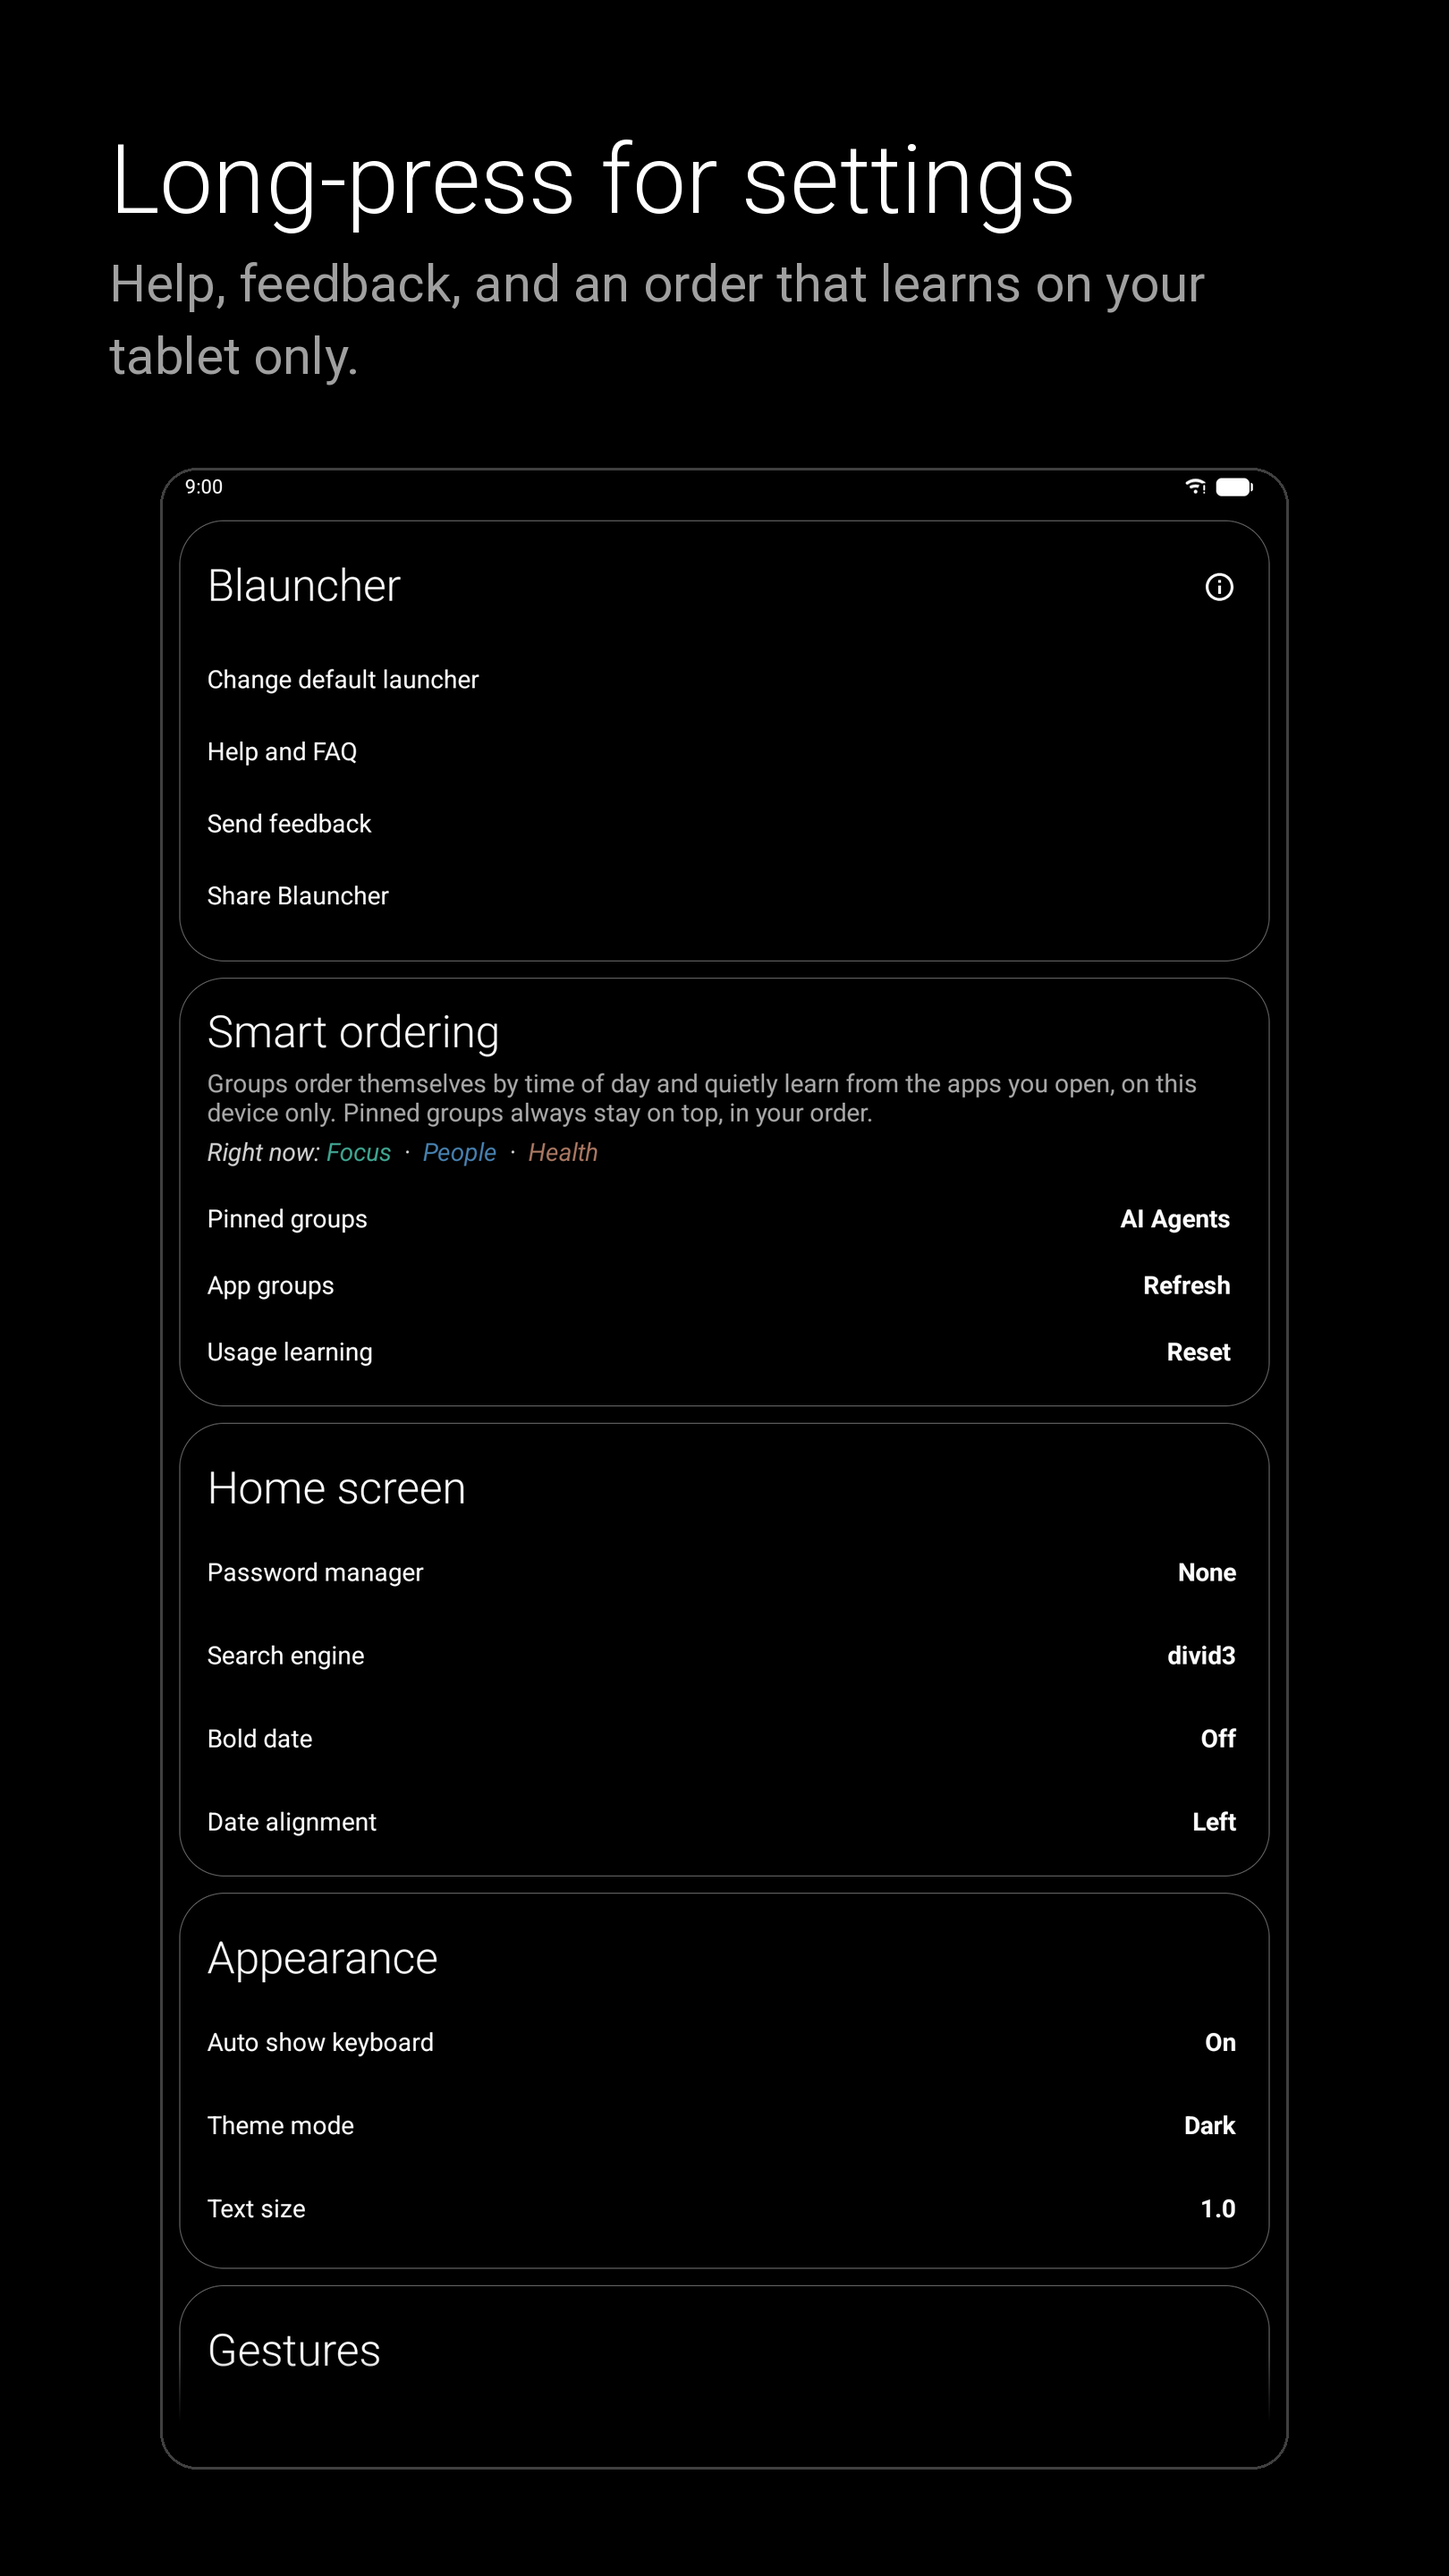
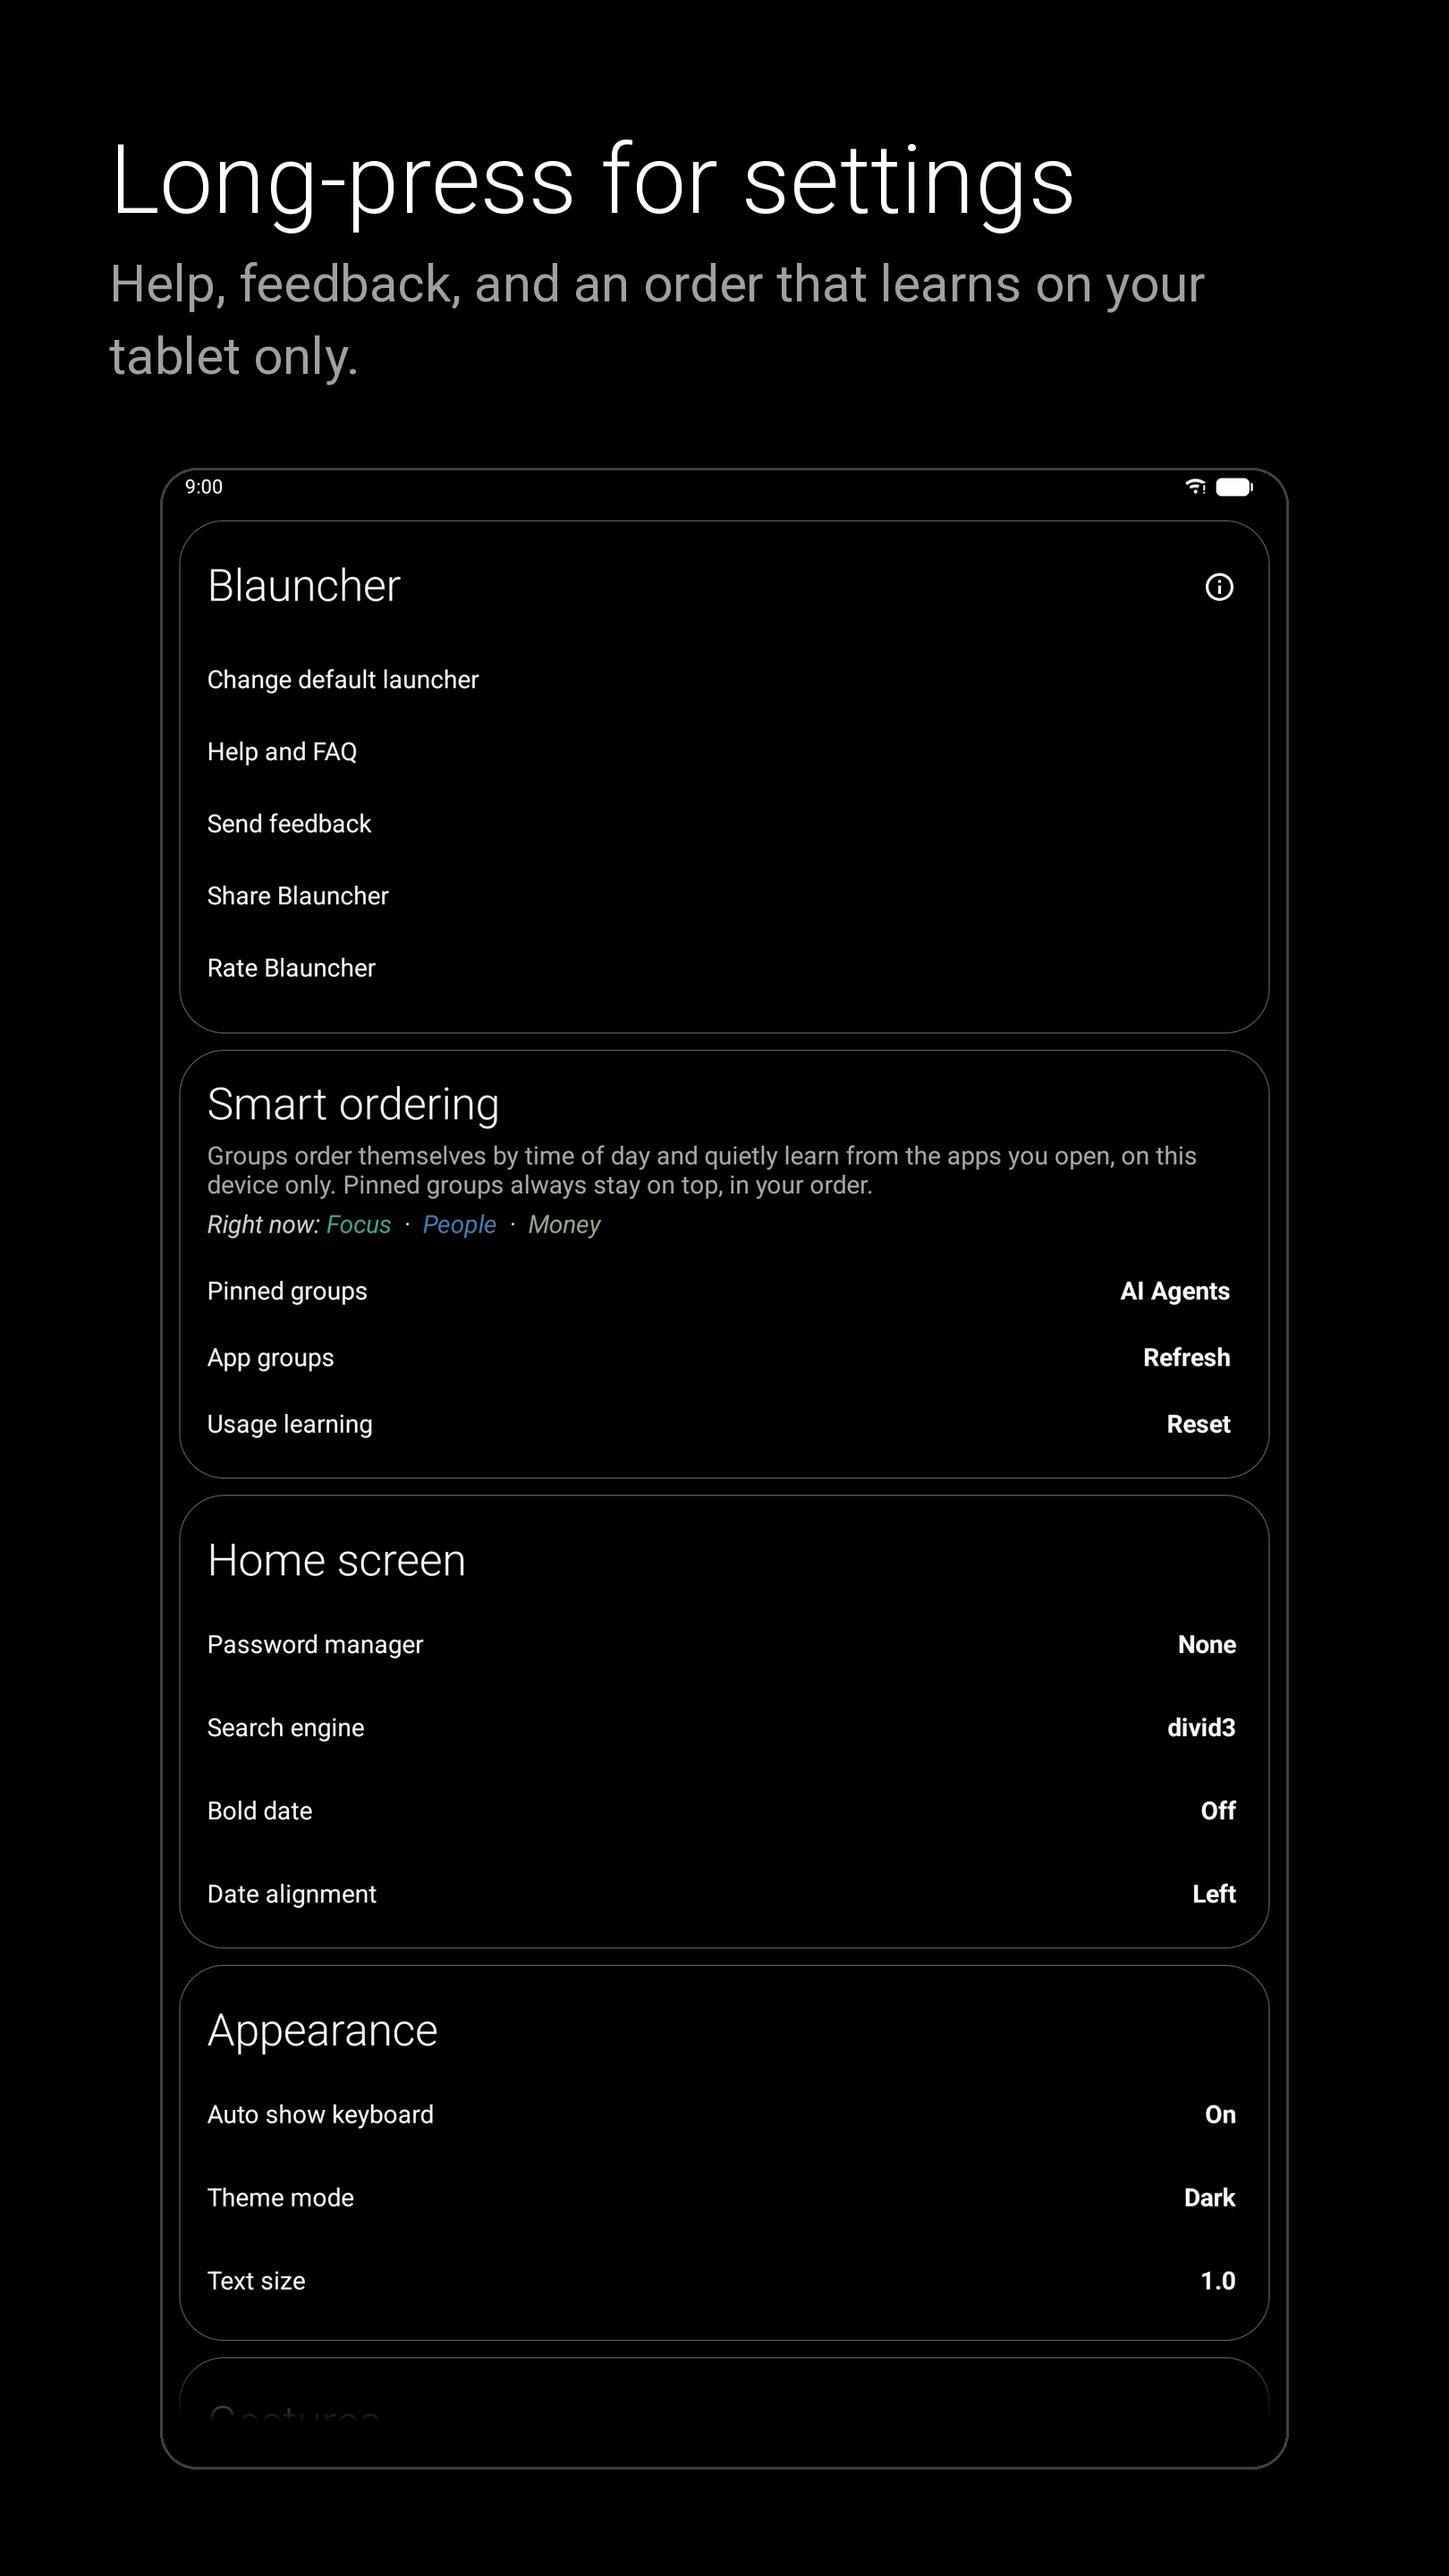
Rate Blauncher: a Settings entry that opens the Play listing
- The Blauncher card gains Rate Blauncher after Share Blauncher. A tap opens
  market://details for com.bradflaugher.blauncher, falls back to the https
  Play page, and shows "No app can open this link" when nothing can, the
  same as Send feedback. No In-App Review API, no new dependencies, and
  nothing ever prompts or reminds anyone to rate.
- Same 48dp text-row target as the entries beside it, in portrait and
  landscape.
- RateAppTest (Robolectric) covers the Play Store app, the web fallback,
  the no-handler toast, and that opening settings starts nothing.
- GUIDE, README, SECURITY and the changelog list it; the phone, 7-inch and
  10-inch settings screenshots and docs/screenshots/settings.png are
  re-captured and re-captioned.

diff --git a/app/src/test/java/app/olauncher/ui/RateAppTest.kt b/app/src/test/java/app/olauncher/ui/RateAppTest.kt
@@ -1,0 +1,119 @@
+package app.olauncher.ui
+
+import android.app.Activity
+import android.content.ComponentName
+import android.content.Intent
+import android.content.IntentFilter
+import android.os.Looper
+import android.view.View
+import android.widget.TextView
+import androidx.test.core.app.ApplicationProvider
+import app.olauncher.MainActivity
+import app.olauncher.R
+import app.olauncher.data.Constants
+import app.olauncher.data.Prefs
+import org.junit.Assert.assertEquals
+import org.junit.Assert.assertNull
+import org.junit.Assert.assertTrue
+import org.junit.Before
+import org.junit.Test
+import org.junit.runner.RunWith
+import org.robolectric.Robolectric
+import org.robolectric.RobolectricTestRunner
+import org.robolectric.Shadows.shadowOf
+import org.robolectric.annotation.Config
+import org.robolectric.shadows.ShadowToast
+
+/**
+ * Settings → Rate Blauncher opens the Play listing, in the Play Store app when there is one and
+ * else in the browser, and says so when neither can open it. It is only ever a tap: nothing in
+ * the launcher starts the store by itself.
+ */
+@RunWith(RobolectricTestRunner::class)
+@Config(qualifiers = "w411dp-h891dp-xxhdpi")
+class RateAppTest {
+
+    private val app = ApplicationProvider.getApplicationContext<android.app.Application>()
+
+    @Before
+    fun setUp() {
+        Prefs(app).apply {
+            firstOpen = false
+            // Keep the periodic launcher restart from recreating the activity mid-test.
+            launcherRestartTimestamp = System.currentTimeMillis()
+        }
+        // Starting an intent nothing handles throws, as on a device.
+        shadowOf(app).checkActivities(true)
+    }
+
+    @Test
+    fun theEntryIsAPlainTargetInTheBlauncherCard() {
+        val activity = openSettings()
+        val rate = activity.findViewById<TextView>(R.id.rateApp)
+
+        assertEquals(View.VISIBLE, rate.visibility)
+        assertEquals(activity.getString(R.string.rate_app), rate.text.toString())
+        assertTrue(rate.isClickable)
+        assertTrue(rate.minHeight >= 48 * activity.resources.displayMetrics.density)
+        // Opening the launcher and its settings never sends anyone to the store.
+        assertNull(shadowOf(activity).nextStartedActivity)
+    }
+
+    @Test
+    fun opensThePlayStoreAppWhenThereIsOne() {
+        handle("market", "store")
+        handle("https", "browser")
+        val activity = openSettings()
+
+        activity.findViewById<View>(R.id.rateApp).performClick()
+
+        val started = shadowOf(activity).nextStartedActivity
+        assertEquals(Intent.ACTION_VIEW, started.action)
+        assertEquals(Constants.URL_PLAY_STORE_APP, started.dataString)
+    }
+
+    @Test
+    fun fallsBackToTheWebListing() {
+        handle("https", "browser")
+        val activity = openSettings()
+
+        activity.findViewById<View>(R.id.rateApp).performClick()
+
+        val started = shadowOf(activity).nextStartedActivity
+        assertEquals(Intent.ACTION_VIEW, started.action)
+        assertEquals(Constants.URL_PLAY_STORE, started.dataString)
+    }
+
+    @Test
+    fun saysSoWhenNothingCanOpenIt() {
+        val activity = openSettings()
+
+        activity.findViewById<View>(R.id.rateApp).performClick()
+
+        assertNull(shadowOf(activity).nextStartedActivity)
+        assertEquals(activity.getString(R.string.no_app_for_link), ShadowToast.getTextOfLatestToast())
+    }
+
+    private fun openSettings(): Activity {
+        val activity = Robolectric.buildActivity(MainActivity::class.java).setup().get()
+        activity.findViewById<View>(R.id.mainLayout).performContextClick()
+        idle()
+        return activity
+    }
+
+    /** Registers a stand-in app that views [scheme] links. */
+    private fun handle(scheme: String, name: String) {
+        val component = ComponentName("test.$name", "test.$name.ViewActivity")
+        val packageManager = shadowOf(app.packageManager)
+        packageManager.addActivityIfNotPresent(component)
+        packageManager.addIntentFilterForActivity(
+            component,
+            IntentFilter(Intent.ACTION_VIEW).apply {
+                addCategory(Intent.CATEGORY_DEFAULT)
+                addDataScheme(scheme)
+            },
+        )
+    }
+
+    private fun idle() = shadowOf(Looper.getMainLooper()).idle()
+}

diff --git a/app/src/main/java/app/olauncher/ui/SettingsFragment.kt b/app/src/main/java/app/olauncher/ui/SettingsFragment.kt
@@ -40,6 +40,7 @@ import app.olauncher.helper.getColorFromAttr
 import app.olauncher.helper.isTablet
 import app.olauncher.helper.openAppInfo
 import app.olauncher.helper.openUrl
+import app.olauncher.helper.rateApp
 import app.olauncher.helper.shareApp
 import app.olauncher.helper.showToast
 import java.util.Locale
@@ -103,6 +104,7 @@ class SettingsFragment : Fragment(), View.OnClickListener, View.OnLongClickListe
             R.id.howItWorks -> showQuickGuide()
             R.id.sendFeedback -> requireContext().openUrl(Constants.URL_FEEDBACK)
             R.id.shareApp -> requireContext().shareApp()
+            R.id.rateApp -> requireContext().rateApp()
             // Home button for recents feature disabled
             // R.id.homeButtonRecents -> toggleHomeButtonRecents()
             R.id.autoShowKeyboard -> toggleKeyboardText()
@@ -160,6 +162,7 @@ class SettingsFragment : Fragment(), View.OnClickListener, View.OnLongClickListe
         binding.howItWorks.setOnClickListener(this)
         binding.sendFeedback.setOnClickListener(this)
         binding.shareApp.setOnClickListener(this)
+        binding.rateApp.setOnClickListener(this)
         binding.autoShowKeyboard.setOnClickListener(this)
         // Home button for recents feature disabled
         // binding.homeButtonRecents.setOnClickListener(this)

diff --git a/app/src/main/java/app/olauncher/helper/Utils.kt b/app/src/main/java/app/olauncher/helper/Utils.kt
@@ -487,6 +487,18 @@ fun Context.openUrl(url: String) {
     }
 }
 
+/**
+ * Opens Blauncher's Play listing so it can be rated: in the Play Store app when there is one,
+ * else the web page in the browser. Only ever on a tap; the launcher never asks for a rating.
+ */
+fun Context.rateApp() {
+    try {
+        startActivity(Intent(Intent.ACTION_VIEW, Constants.URL_PLAY_STORE_APP.toUri()))
+    } catch (_: ActivityNotFoundException) {
+        openUrl(Constants.URL_PLAY_STORE)
+    }
+}
+
 /** Opens the system share sheet with a line about Blauncher and its store link. */
 fun Context.shareApp() {
     val send = Intent(Intent.ACTION_SEND)

diff --git a/app/src/main/java/app/olauncher/data/Constants.kt b/app/src/main/java/app/olauncher/data/Constants.kt
@@ -58,5 +58,7 @@ object Constants {
     const val URL_PRIVACY_POLICY = "https://bradflaugher.com/privacy/blauncher/"
     const val URL_FEEDBACK = "https://github.com/bradflaugher/Blauncher/issues/new"
     const val URL_PLAY_STORE = "https://play.google.com/store/apps/details?id=com.bradflaugher.blauncher"
+    /** The same listing in the Play Store app, which is where a rating can be left. */
+    const val URL_PLAY_STORE_APP = "market://details?id=com.bradflaugher.blauncher"
 
 }

diff --git a/README.md b/README.md
@@ -10,7 +10,8 @@ interface. On first run a small tip card teaches those two gestures, then
 what the date and the key do, one at a time, and gets out of the way;
 **Settings → Help and FAQ** has the rest on one page, and the
 **[user guide](GUIDE.md)** covers everything. Settings also has **Send
-feedback** (a new GitHub issue) and **Share Blauncher**.
+feedback** (a new GitHub issue), **Share Blauncher** and **Rate Blauncher**
+(its Google Play page; the app never asks for a rating).
 
 ## Screens
 
@@ -18,7 +19,7 @@ feedback** (a new GitHub issue) and **Share Blauncher**.
   <img width="24%" src="docs/screenshots/tips.png" alt="First run: the home screen with a tip card above the search bar reading Welcome, tip 1 of 3, Swipe up for your apps">
   <img width="24%" src="docs/screenshots/home.png" alt="Home screen: the date at the top, and at the bottom a search bar reading Search the web beside a round key glyph for the password manager">
   <img width="24%" src="docs/screenshots/drawer.png" alt="App drawer: a one-line tip under the search field, then apps in groups, each marked by its own colored glyph; emphasized apps are bold and first while the rest of the group folds into one faded line counting the hidden apps">
-  <img width="24%" src="docs/screenshots/settings.png" alt="Settings: the Blauncher card with Help and FAQ, Send feedback and Share Blauncher, then Smart ordering">
+  <img width="24%" src="docs/screenshots/settings.png" alt="Settings: the Blauncher card with Help and FAQ, Send feedback, Share Blauncher and Rate Blauncher, then Smart ordering">
 </p>
 
 <p align="center"><sub>First run &nbsp;·&nbsp; Home &nbsp;·&nbsp; App drawer &nbsp;·&nbsp; Settings</sub></p>

diff --git a/SECURITY.md b/SECURITY.md
@@ -47,10 +47,13 @@ gh attestation verify Blauncher.apk --repo bradflaugher/Blauncher
   `ACTION_WEB_SEARCH` intent. Either way the launcher itself makes no
   network request; from the hand-off on, the text is the browser's and the
   chosen engine's data, subject to their privacy terms.
-- **Send feedback** and **Share Blauncher** in Settings are plain intents: an
-  `ACTION_VIEW` of the GitHub new-issue page in the browser, and the system
-  share sheet (`ACTION_SEND`) with a fixed line and the Play link. The
-  launcher adds nothing about the device or its apps to either.
+- **Send feedback**, **Share Blauncher** and **Rate Blauncher** in Settings
+  are plain intents: an `ACTION_VIEW` of the GitHub new-issue page in the
+  browser, the system share sheet (`ACTION_SEND`) with a fixed line and the
+  Play link, and an `ACTION_VIEW` of the Play listing (`market://`, falling
+  back to the https page). The launcher adds nothing about the device or its
+  apps to any of them, uses no in-app review library, and never prompts for
+  a rating.
 - The swipe-down notifications gesture calls the hidden
   `StatusBarManager.expandNotificationsPanel()` method by reflection (there
   is no public equivalent) under the `EXPAND_STATUS_BAR` permission. If a

diff --git a/GUIDE.md b/GUIDE.md
@@ -176,6 +176,9 @@ Long-press anywhere on the home screen to get here.
     your browser, for bugs and ideas.
   - **Share Blauncher**: the system share sheet with a line and the Google
     Play link. Nothing is ever shared without you choosing it.
+  - **Rate Blauncher**: opens Blauncher's Google Play page (in the Play
+    Store app, or the browser if there is none) to rate or review it.
+    Blauncher never asks you to rate it; this is only here if you want it.
 - **Smart ordering** — see above.
 - **Home screen** — **Password manager** (the app the key glyph opens),
   **Search engine** (where the search bar sends its text), **Bold date**,
